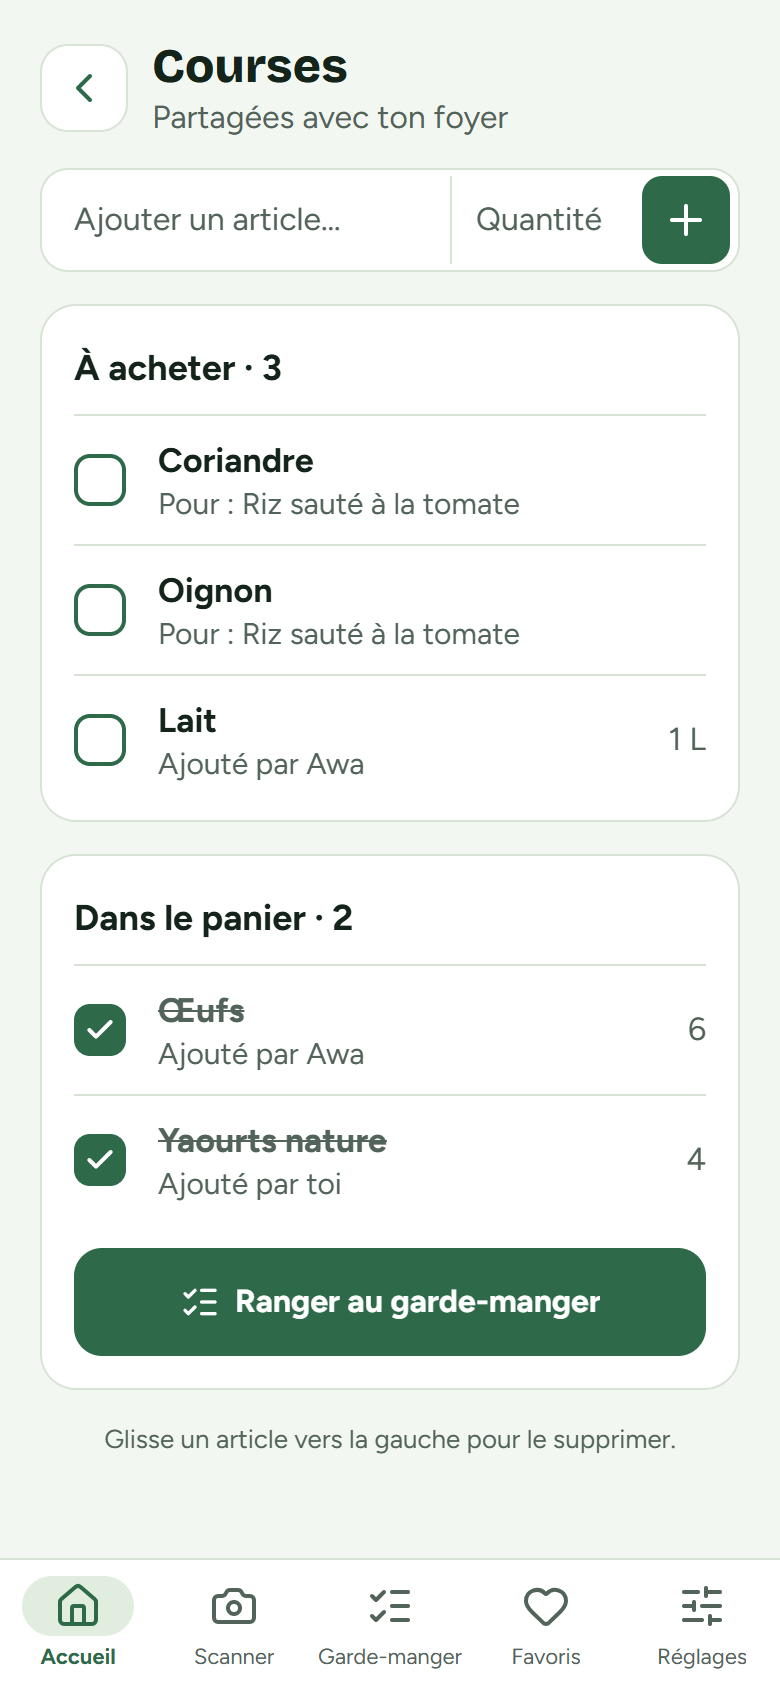
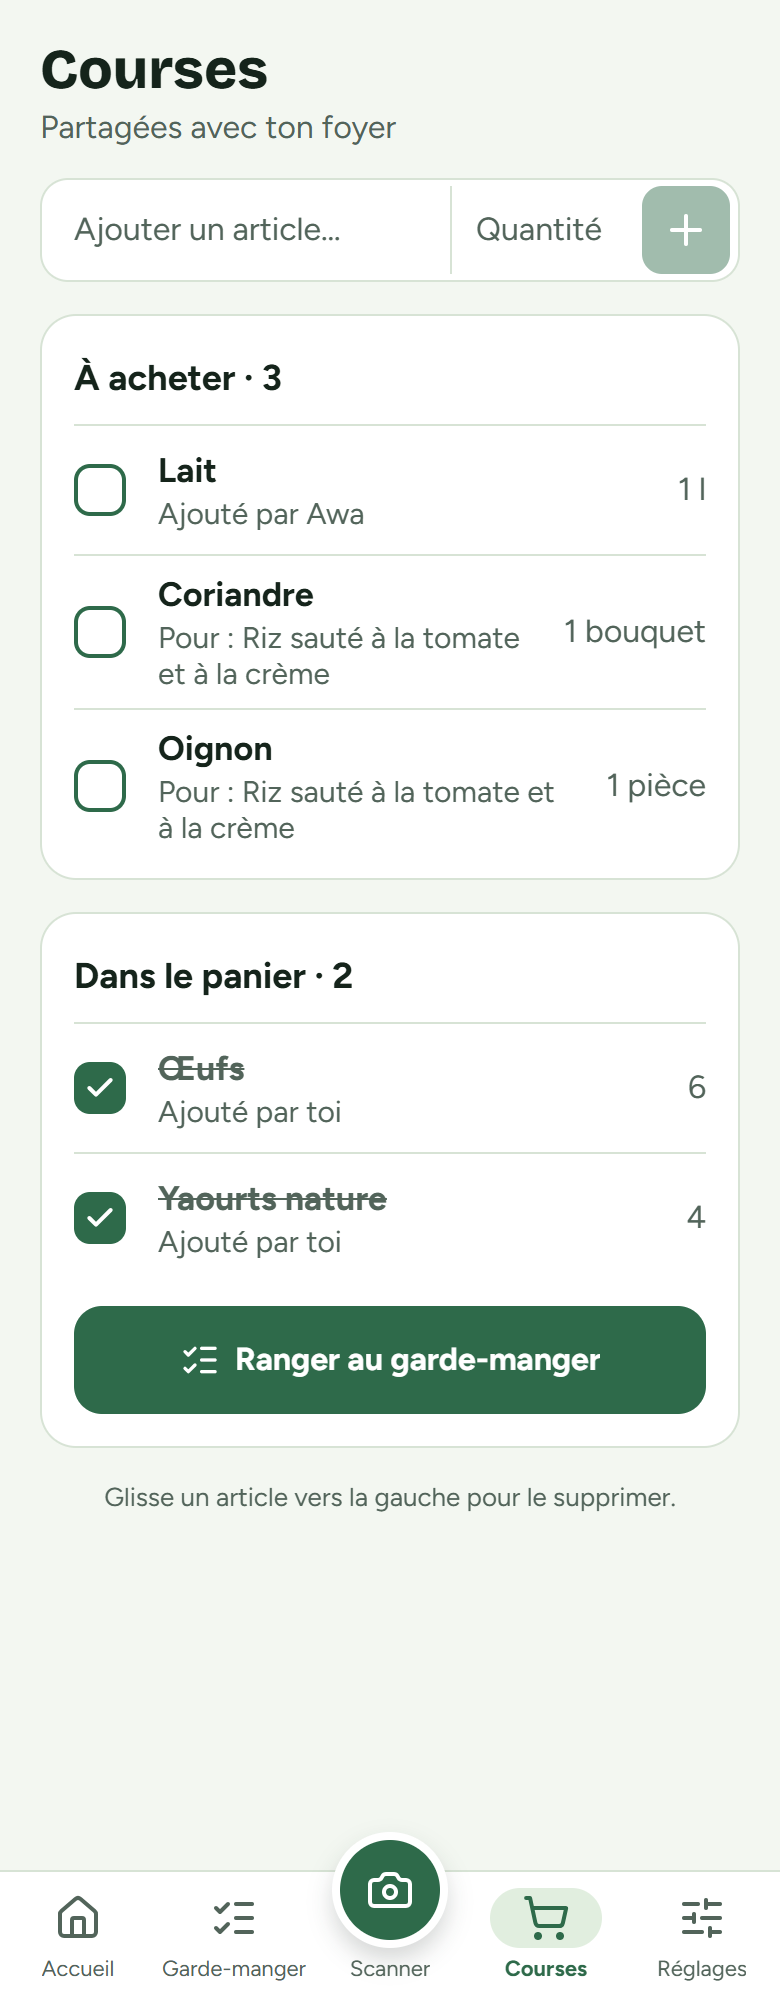
Phase 7 : captures de docs/design/implemente/ refaites (écrans sans maquette compris, « Favoris » devenu « Mes recettes ») ; PLAN (cases, journal) et PROJECT_CONTEXT à jour

diff --git a/PLAN.md b/PLAN.md
@@ -271,15 +271,15 @@ En touchant un aliment du garde-manger, on voit sa fiche : description courte, o
 Suite de la phase 7, sur la branche `phase-7-finalisation`.
 
 - [x] Bilan des cases non cochées et des points reportés des phases 7, 7b et 7c
-- [ ] Navigation : onglets Accueil · Garde-manger · Scanner (au centre, mis en valeur) · Courses · Réglages ; favoris dans l'Accueil, section « Mes recettes » avec « Tout voir » (l'écran Favoris devient cette page)
-- [ ] Garde-manger : dates relatives jusqu'à 7 jours, date réelle au-delà (« 12 oct. »), dans le format de la langue
-- [ ] Fiche aliment : majuscule au début de chaque valeur, badge de date avec les couleurs du garde-manger, atouts en pastilles courtes (trois mots au plus : consignes des fiches et champ régénéré pour les fiches existantes)
-- [ ] Résultats de génération : « D'autres recettes » à la fin de la liste, « Transformer mes restes » seulement avec des restes et plus compact, illustration « Photo du plat » pendant le chargement de l'image ; recette écartée par le serveur : une nouvelle demande (un essai), sinon explication à l'utilisateur
-- [ ] Vérifier l'étiquette de régime sur une recette végétarienne et les quantités des courses venues d'une recette
-- [ ] Écarts avec les maquettes de `docs/design/`
-- [ ] Icônes par catégorie d'aliment dans le garde-manger, à la place de la feuille unique (déplacé depuis les finitions du lancement)
-- [ ] Captures à jour dans `docs/design/implemente/`
-- [ ] Suppression des branches fusionnées (locales et sur GitHub)
+- [x] Navigation : onglets Accueil · Garde-manger · Scanner (au centre, mis en valeur) · Courses · Réglages ; favoris dans l'Accueil, section « Mes recettes » avec « Tout voir » (l'écran Favoris devient cette page)
+- [x] Garde-manger : dates relatives jusqu'à 7 jours, date réelle au-delà (« 12 oct. »), dans le format de la langue
+- [x] Fiche aliment : majuscule au début de chaque valeur, badge de date avec les couleurs du garde-manger, atouts en pastilles courtes (trois mots au plus : consignes des fiches et champ régénéré pour les fiches existantes)
+- [x] Résultats de génération : « D'autres recettes » à la fin de la liste, « Transformer mes restes » seulement avec des restes et plus compact, illustration « Photo du plat » pendant le chargement de l'image ; recette écartée par le serveur : une nouvelle demande (un essai), sinon explication à l'utilisateur
+- [x] Vérifier l'étiquette de régime sur une recette végétarienne et les quantités des courses venues d'une recette
+- [x] Écarts avec les maquettes de `docs/design/`
+- [x] Icônes par catégorie d'aliment dans le garde-manger, à la place de la feuille unique (déplacé depuis les finitions du lancement)
+- [x] Captures à jour dans `docs/design/implemente/`
+- [x] Suppression des branches fusionnées (locales et sur GitHub)
 
 **Terminé quand** : chaque point du bilan est traité ou reporté dans une phase, les écrans suivent les maquettes (écarts restants décidés et notés au journal), et les captures de `docs/design/implemente/` correspondent à l'app.
 
@@ -552,4 +552,10 @@ Ancienne phase 8.
 | 30/09/2026 | Nom générique Open Food Facts gardé en entier (120 caractères au plus ; il était coupé à 40 comme le nom du produit : « Tartines croustillantes à la farine de ») ; sous-titre du garde-manger sur deux lignes au maximum, coupé à la fin d'un mot avec « … » | Produits existants relus après sauvegarde : 4 lots, 3 produits, NOVA connu pour tous |
 | 30/09/2026 | Quantités affichées dans le format de la langue (« 0,25 kg ») et dans l'unité la plus naturelle quand la conversion est simple (0,25 kg → 250 g, 1500 g → 1,5 kg, 0,5 l → 50 cl) ; les quantités enregistrées ne sont pas réécrites | Fractions, « 2 x 125 g » et textes libres restent tels quels |
 | 30/09/2026 | Fin du projet réorganisée : 7 Finalisation du design, 8 Anti-gaspi avancé, 9 Recettes, 10 Premier contact, 11 Point de décision, 12 Natif (un seul build), 13 Services et abonnements, 14 Audit qualité et sécurité (ancienne 8a), 15 Lancement (ancienne 8), puis v1.1. Règle : simple rechargement d'abord, changements natifs regroupés dans un seul build, services payants ensuite, audit de l'app complète juste avant le lancement | Déplacés sans doublon : icônes par catégorie → 7 ; « Mot de passe oublié » → 10 ; confirmation d'email → 13 ; offres payantes de Gemini et limites de Groq → 13 ; nom de l'app décidé en 11, renommage gardé au lancement. Les mentions « phase 8 » et « phase 8a » plus haut dans ce journal désignent désormais les phases 15 et 14 |
+| 30/09/2026 | Phase 7 (finalisation) : navigation Accueil · Garde-manger · Scanner (bouton rond au centre) · Courses · Réglages ; favoris dans l'accueil (« Mes recettes », favoris d'abord, « Tout voir » vers l'ancien écran Favoris, devenu « Mes recettes ») | Liens vérifiés : carte « Courses » de l'accueil, panier du garde-manger, « Voir » après un ajout aux courses, « Voir mes recettes » après un favori |
+| 30/09/2026 | Dates relatives jusqu'à 7 jours, date réelle au-delà (« 12 oct. », avec l'année si elle diffère) ; le badge de la fiche aliment utilisait déjà les couleurs du garde-manger (même composant) | 4 jours reste vert comme dans le garde-manger (la maquette de la fiche le montrait en orange) |
+| 30/09/2026 | Atouts des fiches aliments : trois mots au plus, expressions correctes avec leurs liaisons, un nutriment par pastille ; style télégraphique refusé par la validation (« Source protéines », « Vitamines C K ») ; les 103 fiches réécrites (`scripts/food-facts/fix-nutrition.mjs --all`, après sauvegarde), 0 échec | Premier passage abandonné : sans consigne sur les liaisons, le modèle écrivait « Eau fibres » |
+| 30/09/2026 | 2 recettes au lieu de 3 : pas une recette écartée, mais la règle du nombre de recettes (1 recette pour 1 ou 2 aliments choisis, 2 pour 3 à 5, 3 au-delà) ; la capture avait 3 aliments choisis. Désormais, une explication s'affiche sous les résultats ; une recette écartée par le serveur est redemandée une fois (titres déjà proposés exclus), sinon expliquée | Essai réel en régime végétarien : Groq signalait la crème fraîche et le beurre comme non végétariens, toutes les recettes étaient écartées (« aucune recette compatible »). Produits laitiers, œufs et miel toujours permis quand le nom entier en est un ; ensuite 3 recettes sur 3, étiquette « Végétarien » affichée |
+| 30/09/2026 | Quantités des courses venues d'une recette vérifiées dans l'app (« Oignon 1 pièce », « Coriandre 1 bouquet ») ; bouton « Tout ajouter aux courses » (l'ancien libellé était coupé sur un écran étroit) | |
+| 30/09/2026 | Icônes par catégorie d'aliment (lucide) dans la même pastille, teinte douce par grande famille (végétal, protéines, frais, épicerie, assaisonnement, restes) dans les jetons de `theme.ts` ; marmite pour les restes, feuille pour une catégorie inconnue | Captures de `docs/design/implemente/` refaites, écrans sans maquette compris (aliment en plusieurs lots, fiche produit, ajout d'ingrédients, confirmation du scan, « Mes recettes ») |
 | | *(résultat du test Gemini vs Clarifai)* | |

diff --git a/PROJECT_CONTEXT.md b/PROJECT_CONTEXT.md
@@ -232,6 +232,13 @@ Le garde-manger appartient à un **foyer** (visible par ses membres) ; recettes,
 - Produits scannés par code-barres : colonnes `product_name`, `generic_name`, `brand`, `nova_group`, `nutriscore_grade`, `off_categories` (`lib/openFoodFacts.ts`) ; nom du produit gardé, nom générique en sous-titre (`useFoodNaming`), fiche générique pour NOVA 1 ou 2, sinon `components/pantry/ProductCard.tsx`. Relecture des produits existants : `scripts/products/refresh-products.ts`. Nom générique gardé en entier, sous-titre coupé à la fin d'un mot (`components/ui/WordClampText.tsx`).
 - Quantités affichées avec `displayQuantity` (`lib/quantity.ts`) : format de la langue, unité la plus naturelle (`naturalQuantity`, aussi dans `formatQuantity`).
 
+### Phase 7 — finalisation du design (branche `phase-7-finalisation`)
+- Navigation (`app/(tabs)/_layout.tsx`, `components/ui/TabBar.tsx`) : Accueil · Garde-manger · Scanner (bouton rond au centre) · Courses · Réglages ; « Mes recettes » (`app/(tabs)/saved.tsx`) en onglet caché, ouvert depuis la section « Mes recettes » de l'accueil.
+- Icônes des aliments : `components/pantry/FoodIcon.tsx` (catégorie → icône lucide, famille → `colors.foodFamilies`).
+- Dates : relatives jusqu'à 7 jours (`RELATIVE_DAYS`), date réelle au-delà (`shortDate`, `lib/expiry.ts`).
+- Génération : recette écartée redemandée une fois ; `rejected` et `fewIngredients` dans la réponse, expliqués sous les résultats ; végétarien : produits laitiers, œufs et miel toujours permis (`isDietException`).
+- Fiches aliments : atouts de trois mots au plus (`isShortNutrition`), réécriture des fiches existantes par `scripts/food-facts/fix-nutrition.mjs`.
+
 ## 5. État actuel et problèmes connus
 
 ### Sécurité
@@ -248,7 +255,7 @@ Le garde-manger appartient à un **foyer** (visible par ses membres) ; recettes,
 - Tests : Deno (`supabase/functions/**/*.test.ts`) et SQL (`supabase/tests/*.sql`).
 
 ## 6. Prochaine étape
-Phase 7 (finalisation du design, branche `phase-7-finalisation`), puis 8 Anti-gaspi avancé, 9 Recettes, 10 Premier contact, 11 Point de décision, 12 Natif (un seul build), 13 Services et abonnements, 14 Audit, 15 Lancement. Détails dans `PLAN.md`.
+Tests de la phase 7 (finalisation du design) sur téléphone, puis 8 Anti-gaspi avancé, 9 Recettes, 10 Premier contact, 11 Point de décision, 12 Natif (un seul build), 13 Services et abonnements, 14 Audit, 15 Lancement. Détails dans `PLAN.md`.
 
 ## 7. Lancer le projet
 ```bash
